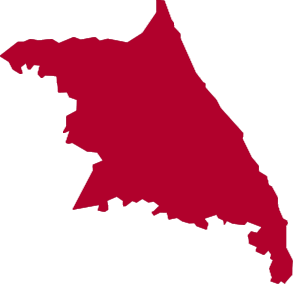
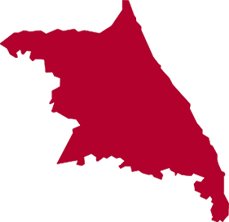
[주지성]
- 선택페이지 전국지도 크기 변경

diff --git a/src/main/resources/static/css/style.css b/src/main/resources/static/css/style.css
@@ -246,6 +246,24 @@ section .height220{
 
 section #reviewBtn{
 	margin: 0 20px 20px 0;
+	background-color: rgb(139, 202, 153);
+}
+
+section #reviewBtn:hover{
+	background-color: #80ba8d;
+}
+
+#saveReviewBtn{
+	background-color: rgb(139, 202, 153);
+	color:white;
+}
+
+#saveReviewBtn:hover{
+	background-color: #80ba8d;
+}
+
+.bi-x{
+	font-size:30px;	
 }
 
 .mypage_profile img{
@@ -299,105 +317,106 @@ section #reviewBtn{
   display: none;
 }
 
+
 .map-wrapper #서울Popup {
   position: absolute;
-  top: 135px;
-  left: 121px;
+  top: 106px;
+  left: 95px;
 }
 
 .map-wrapper #강원Popup {
   position: absolute;
   top: 0px;
-  left: 142px;
+  left: 111px;
 }
 
 .map-wrapper #경기Popup {
   position: absolute;
-  top: 59px;
-  left: 88px;
+  top: 47px;
+  left: 69px;
 }
 
 .map-wrapper #경남Popup {
   position: absolute;
-  top: 391px;
-  left: 214px;
+  top: 306px;
+  left: 168px;
 }
 
 .map-wrapper #경북Popup {
   position: absolute;
-  top: 218px;
-  left: 236px;
+  top: 170px;
+  left: 184px;
 }
 
 .map-wrapper #광주Popup {
   position: absolute;
-  top: 480px;
-  left: 108px;
+  top: 373px;
+  left: 85px;
 }
 
 .map-wrapper #대구Popup {
   position: absolute;
-  top: 371px;
-  left: 303px;
+  top: 291px;
+  left: 238px;
 }
 
 .map-wrapper #대전Popup {
   position: absolute;
-  top: 308px;
-  left: 178px;
+  top: 240px;
+  left: 140px;
 }
 
 .map-wrapper #부산Popup {
   position: absolute;
-  top: 465px;
-  left: 359px;
+  top: 364px;
+  left: 282px;
 }
 
 .map-wrapper #울산Popup {
   position: absolute;
-  top: 419px;
-  left: 375px;
+  top: 328px;
+  left: 294px;
 }
 
 .map-wrapper #인천Popup {
   position: absolute;
-  top: 113px;
-  left: 50px;
+  top: 90px;
+  left: 40px;
 }
 
 .map-wrapper #전남Popup {
   position: absolute;
-  top: 450px;
-  left: 0px;
+  top: 352px;
+  left: 17px;
 }
 
 .map-wrapper #전북Popup {
   position: absolute;
-  top: 356px;
-  left: 70px;
+  top: 278px;
+  left: 57px;
 }
 
 .map-wrapper #제주Popup {
   position: absolute;
-  top: 0px;
-  left: 41px;
+  top: 529px;
+  left: 34px;
 }
 
 .map-wrapper #충남Popup {
   position: absolute;
-  top: 223px;
-  left: 37px;
+  top: 176px;
+  left: 30px;
 }
 
 .map-wrapper #충북Popup {
   position: absolute;
-  top: 201px;
-  left: 171px;
+  top: 156px;
+  left: 133px;
 }
 
 .map-wrapper #전국Popup {
   position: absolute;
-  top: 0px;
+  top: 1px;
   left: 0px;
 }		
 		
